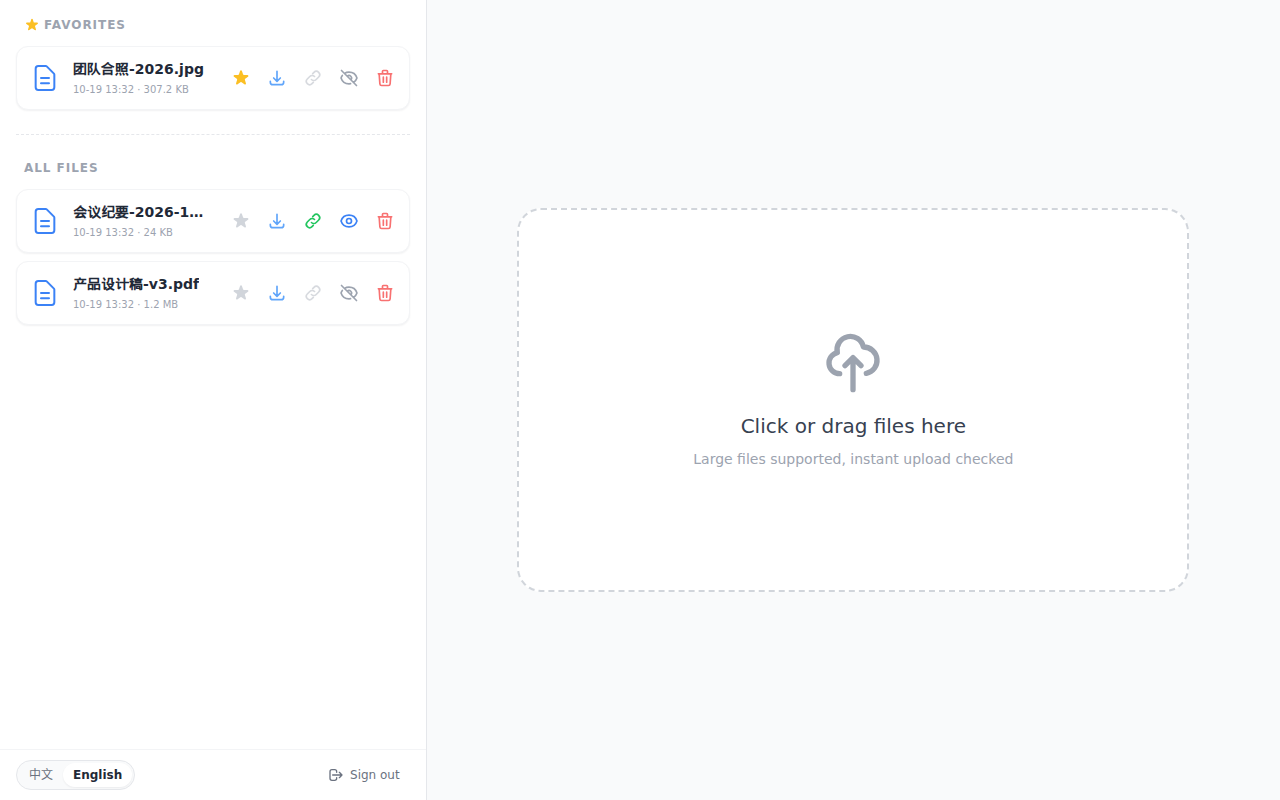
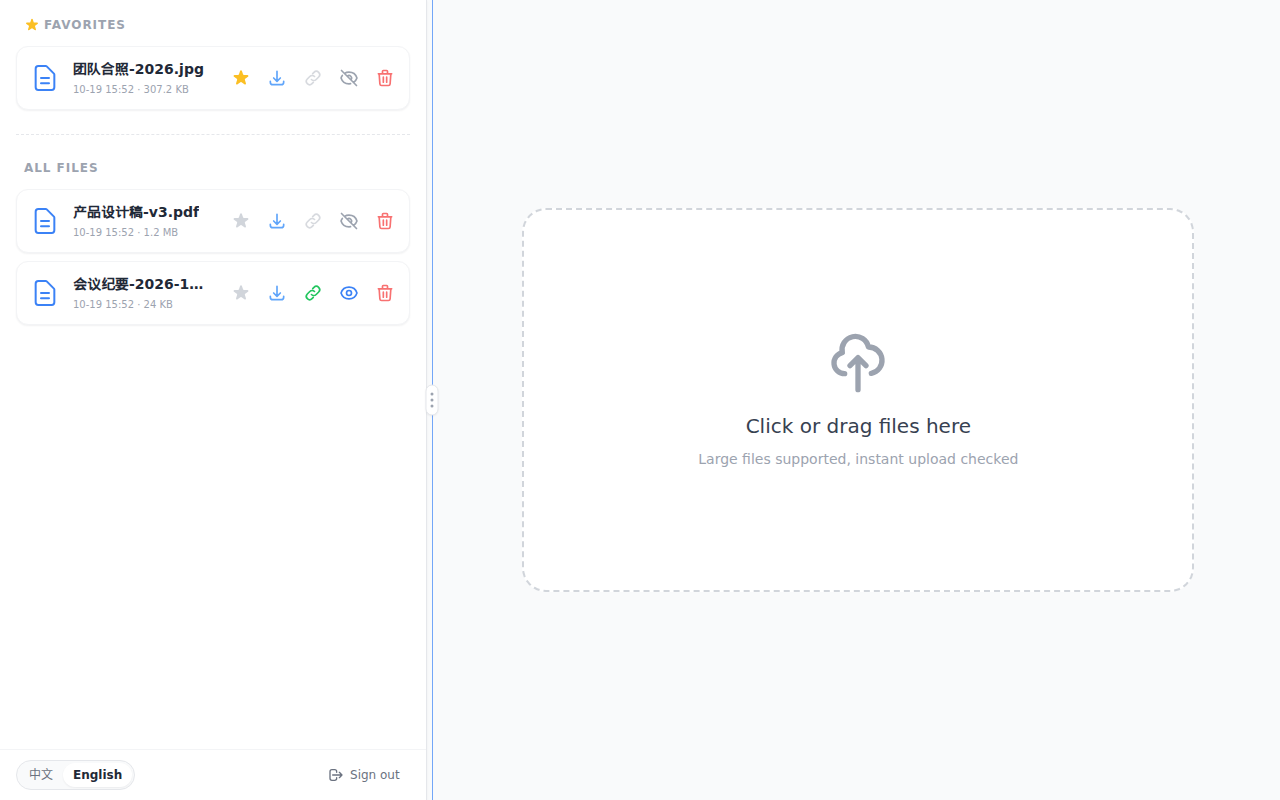
侧栏与主区之间增加可拖拽分隔条，宽度占比持久化在 localStorage

diff --git a/frontend/src/App.vue b/frontend/src/App.vue
@@ -32,6 +32,112 @@ let actionErrorTimer = 0;
 const favorites = computed(() => files.value.filter((file) => file.is_favorite));
 const others = computed(() => files.value.filter((file) => !file.is_favorite));
 
+/* ---------- 侧栏宽度分隔条 ---------- */
+
+/** 宽度占比存 localStorage；拖拽 / 左右方向键调整，双击恢复默认。 */
+const SIDEBAR_RATIO_KEY = "file-share.sidebar-ratio";
+const DEFAULT_SIDEBAR_RATIO = 1 / 3;
+const MIN_SIDEBAR_PX = 280;
+const MIN_WORKSPACE_PX = 360;
+const SPLITTER_PX = 10;
+const KEYBOARD_STEP_PX = 16;
+/** 与 CSS 的窄屏断点（max-width: 900px）保持一致：窄屏上下堆叠，不做左右分栏。 */
+const WIDE_LAYOUT_MIN_PX = 901;
+
+function readSidebarRatio(): number {
+  try {
+    const raw = Number(localStorage.getItem(SIDEBAR_RATIO_KEY));
+    if (Number.isFinite(raw) && raw > 0) {
+      return Math.min(Math.max(raw, 0.12), 0.85);
+    }
+  } catch {
+    /* 隐私模式读不到 localStorage：用默认占比 */
+  }
+  return DEFAULT_SIDEBAR_RATIO;
+}
+
+function persistSidebarRatio(): void {
+  try {
+    localStorage.setItem(SIDEBAR_RATIO_KEY, ratio.value.toFixed(4));
+  } catch {
+    /* 存不下只影响下次打开，不影响本次调整 */
+  }
+}
+
+const appEl = ref<HTMLElement | null>(null);
+const appWidth = ref(0);
+const ratio = ref(readSidebarRatio());
+const splitting = ref(false);
+let dragPointerId: number | null = null;
+let dragStartX = 0;
+let dragStartWidth = 0;
+let resizeObserver: ResizeObserver | undefined;
+
+const maxSidebarWidth = computed(() =>
+  Math.max(MIN_SIDEBAR_PX, appWidth.value - MIN_WORKSPACE_PX - SPLITTER_PX),
+);
+
+function clampSidebarWidth(width: number): number {
+  return Math.min(Math.max(width, MIN_SIDEBAR_PX), maxSidebarWidth.value);
+}
+
+const sidebarWidth = computed(() => clampSidebarWidth(ratio.value * appWidth.value));
+// 窄屏宽度交给 CSS；宽屏用内联 px，拖拽时才能跟手。
+const sidebarStyle = computed(() =>
+  appWidth.value >= WIDE_LAYOUT_MIN_PX ? { width: `${sidebarWidth.value}px` } : undefined,
+);
+const sidebarPercent = computed(() =>
+  appWidth.value > 0 ? Math.round((sidebarWidth.value / appWidth.value) * 100) : 33,
+);
+const minSidebarPercent = computed(() =>
+  appWidth.value > 0 ? Math.ceil((MIN_SIDEBAR_PX / appWidth.value) * 100) : 0,
+);
+const maxSidebarPercent = computed(() =>
+  appWidth.value > 0 ? Math.floor((maxSidebarWidth.value / appWidth.value) * 100) : 100,
+);
+
+function setSidebarWidth(width: number): void {
+  ratio.value = clampSidebarWidth(width) / appWidth.value;
+}
+
+function onSplitterPointerDown(event: PointerEvent): void {
+  if (event.button !== 0 || appWidth.value < WIDE_LAYOUT_MIN_PX) return;
+  event.preventDefault();
+  splitting.value = true;
+  dragPointerId = event.pointerId;
+  dragStartX = event.clientX;
+  dragStartWidth = sidebarWidth.value;
+  (event.currentTarget as HTMLElement).setPointerCapture(event.pointerId);
+}
+
+function onSplitterPointerMove(event: PointerEvent): void {
+  if (!splitting.value || event.pointerId !== dragPointerId) return;
+  setSidebarWidth(dragStartWidth + (event.clientX - dragStartX));
+}
+
+function onSplitterPointerUp(event: PointerEvent): void {
+  if (!splitting.value) return;
+  splitting.value = false;
+  dragPointerId = null;
+  const target = event.currentTarget as HTMLElement;
+  if (target.hasPointerCapture(event.pointerId)) target.releasePointerCapture(event.pointerId);
+  persistSidebarRatio();
+}
+
+function onSplitterKeydown(event: KeyboardEvent): void {
+  const step = event.shiftKey ? KEYBOARD_STEP_PX * 3 : KEYBOARD_STEP_PX;
+  if (event.key !== "ArrowLeft" && event.key !== "ArrowRight") return;
+  event.preventDefault();
+  setSidebarWidth(sidebarWidth.value + (event.key === "ArrowLeft" ? -step : step));
+  persistSidebarRatio();
+}
+
+function resetSidebarWidth(): void {
+  ratio.value = DEFAULT_SIDEBAR_RATIO;
+  persistSidebarRatio();
+}
+
+
 function isUnauthorized(error: unknown): boolean {
   return error instanceof ApiError && error.status === 401;
 }
@@ -109,22 +215,33 @@ function swallowDrop(event: DragEvent): void {
   event.preventDefault();
 }
 
+/** 量出可用宽度：分隔条按「侧栏 px / 应用 px」的占比工作，窗口变化时跟着重算。 */
+function measureAppWidth(): void {
+  appWidth.value = appEl.value?.clientWidth ?? window.innerWidth;
+}
+
 onMounted(() => {
   document.addEventListener("dragover", swallowDrop);
   document.addEventListener("drop", swallowDrop);
+  measureAppWidth();
+  resizeObserver = new ResizeObserver(measureAppWidth);
+  if (appEl.value) resizeObserver.observe(appEl.value);
+  window.addEventListener("resize", measureAppWidth);
   void refresh();
 });
 
 onBeforeUnmount(() => {
   document.removeEventListener("dragover", swallowDrop);
   document.removeEventListener("drop", swallowDrop);
+  window.removeEventListener("resize", measureAppWidth);
+  resizeObserver?.disconnect();
   window.clearTimeout(actionErrorTimer);
 });
 </script>
 
 <template>
-  <div class="app">
-    <aside class="sidebar">
+  <div ref="appEl" class="app" :class="{ 'is-splitting': splitting }">
+    <aside class="sidebar" :style="sidebarStyle">
       <div class="sidebar-scroll">
         <div v-if="loadError || actionError" class="banners">
           <p v-if="loadError" class="banner" role="alert">{{ t("error.load") }}</p>
@@ -177,6 +294,26 @@ onBeforeUnmount(() => {
         </button>
       </footer>
     </aside>
+
+    <div
+      class="panel-splitter"
+      role="separator"
+      aria-orientation="vertical"
+      :aria-label="t('splitter.label')"
+      :aria-valuemin="minSidebarPercent"
+      :aria-valuemax="maxSidebarPercent"
+      :aria-valuenow="sidebarPercent"
+      :title="t('splitter.hint')"
+      tabindex="0"
+      @pointerdown="onSplitterPointerDown"
+      @pointermove="onSplitterPointerMove"
+      @pointerup="onSplitterPointerUp"
+      @pointercancel="onSplitterPointerUp"
+      @keydown="onSplitterKeydown"
+      @dblclick="resetSidebarWidth"
+    >
+      <span class="splitter-grip" aria-hidden="true"><i></i><i></i><i></i></span>
+    </div>
 
     <main class="workspace">
       <UploadPanel @uploaded="refresh" />

diff --git a/frontend/src/style.css b/frontend/src/style.css
@@ -125,8 +125,9 @@ ul {
   display: flex;
   flex: 0 0 auto;
   flex-direction: column;
+  /* 挂载前 / 窄屏回退；宽屏宽度由 App.vue 按 localStorage 里的占比写成内联 px。 */
   width: 33.333%;
-  min-width: 380px;
+  min-width: 0;
   height: 100%;
   border-right: 1px solid var(--line);
   background: var(--paper);
@@ -419,6 +420,71 @@ ul {
 
 .logout-icon {
   display: inline-flex;
+}
+
+/* ---------- 侧栏 / 主区分隔条 ---------- */
+
+/* 拖动条本身没有常驻装饰：悬停、聚焦或拖动时才浮现中间的 grip，界面保持干净。 */
+.panel-splitter {
+  position: relative;
+  flex: 0 0 10px;
+  width: 10px;
+  cursor: col-resize;
+  touch-action: none;
+}
+
+.panel-splitter::before {
+  content: "";
+  position: absolute;
+  top: 0;
+  bottom: 0;
+  left: 50%;
+  width: 1px;
+  transform: translateX(-50%);
+  background: transparent;
+  transition: background 120ms ease;
+}
+
+.panel-splitter:hover::before,
+.panel-splitter:focus-visible::before,
+.app.is-splitting .panel-splitter::before {
+  background: var(--accent);
+}
+
+.splitter-grip {
+  position: absolute;
+  top: 50%;
+  left: 50%;
+  display: flex;
+  flex-direction: column;
+  gap: 3px;
+  padding: 7px 4px;
+  border: 1px solid var(--line);
+  border-radius: 999px;
+  background: var(--paper);
+  box-shadow: var(--shadow-sm);
+  opacity: 0;
+  transform: translate(-50%, -50%);
+  transition: opacity 120ms ease;
+}
+
+.splitter-grip i {
+  display: block;
+  width: 3px;
+  height: 3px;
+  border-radius: 50%;
+  background: var(--ink-faint);
+}
+
+.panel-splitter:hover .splitter-grip,
+.panel-splitter:focus-visible .splitter-grip,
+.app.is-splitting .splitter-grip {
+  opacity: 1;
+}
+
+.app.is-splitting {
+  cursor: col-resize;
+  user-select: none;
 }
 
 /* ---------- 右侧上传区 ---------- */
@@ -720,11 +786,20 @@ ul {
   .file-actions {
     opacity: 1;
   }
+
+  .splitter-grip {
+    opacity: 1;
+  }
 }
 
 @media (max-width: 900px) {
   .app {
     flex-direction: column;
+  }
+
+  /* 上下堆叠时没有左右分栏，分隔条收起。 */
+  .panel-splitter {
+    display: none;
   }
 
   .sidebar {

diff --git a/frontend/src/i18n.ts b/frontend/src/i18n.ts
@@ -55,6 +55,8 @@ export type MessageKey =
   | "action.make-public"
   | "action.make-private"
   | "action.logout"
+  | "splitter.label"
+  | "splitter.hint"
   | "confirm.delete"
   | "meta.unknown-time"
   | "auth.title"
@@ -107,6 +109,11 @@ const messages: Record<MessageKey, Message> = {
   "action.make-public": { zh: "设为公开", en: "Make public" },
   "action.make-private": { zh: "设为私有", en: "Make private" },
   "action.logout": { zh: "退出登录", en: "Sign out" },
+  "splitter.label": { zh: "调整侧栏宽度", en: "Resize sidebar" },
+  "splitter.hint": {
+    zh: "拖拽或按左右方向键调整宽度，双击恢复默认",
+    en: "Drag or use the arrow keys to resize; double-click to reset",
+  },
   "confirm.delete": {
     zh: "确定要删除记录“{name}”吗？",
     en: "Delete the record “{name}”?",

diff --git a/README.md b/README.md
@@ -21,6 +21,7 @@
 - **收藏与公开**：左侧收藏区与全部文件列表；每个文件可切换收藏、公开/私有；公开后可用匿名直链下载。
 - **单 token 登录**：输入 `AUTH_TOKEN` 换取 30 天会话；所有 `/api/*` 需要 `Authorization: Bearer`。
 - **中英双语**：前端文案可切换，后端错误文案按 `Accept-Language` 本地化。
+- **可调节布局**：侧栏与主区之间的分隔条可拖拽（或聚焦后用左右方向键）调整宽度，双击恢复默认；占比存在 `localStorage`。
 - **单文件交付**：静态链接的 Go 二进制（amd64/arm64），容器以只读根文件系统、丢弃全部 capabilities 运行。
 
 ## 快速开始

diff --git a/DESIGN.md b/DESIGN.md
@@ -91,6 +91,8 @@ CREATE INDEX IF NOT EXISTS file_sha256_idx ON file (sha256);
 
 - 未登录访问主应用会被重定向到 `/auth`；接口返回 401 时前端清除会话并跳转。
 - 「复制直链」只在文件公开时可用，复制结果为 `<origin>/s/<file_id>`。
+- 侧栏与主区之间有可拖拽分隔条：可拖拽或用左右方向键调整宽度，双击恢复默认；
+  宽度占比存在 `localStorage`（`file-share.sidebar-ratio`），窄屏（≤900px）上下堆叠时不显示。
 
 ## 6. 接口
 
